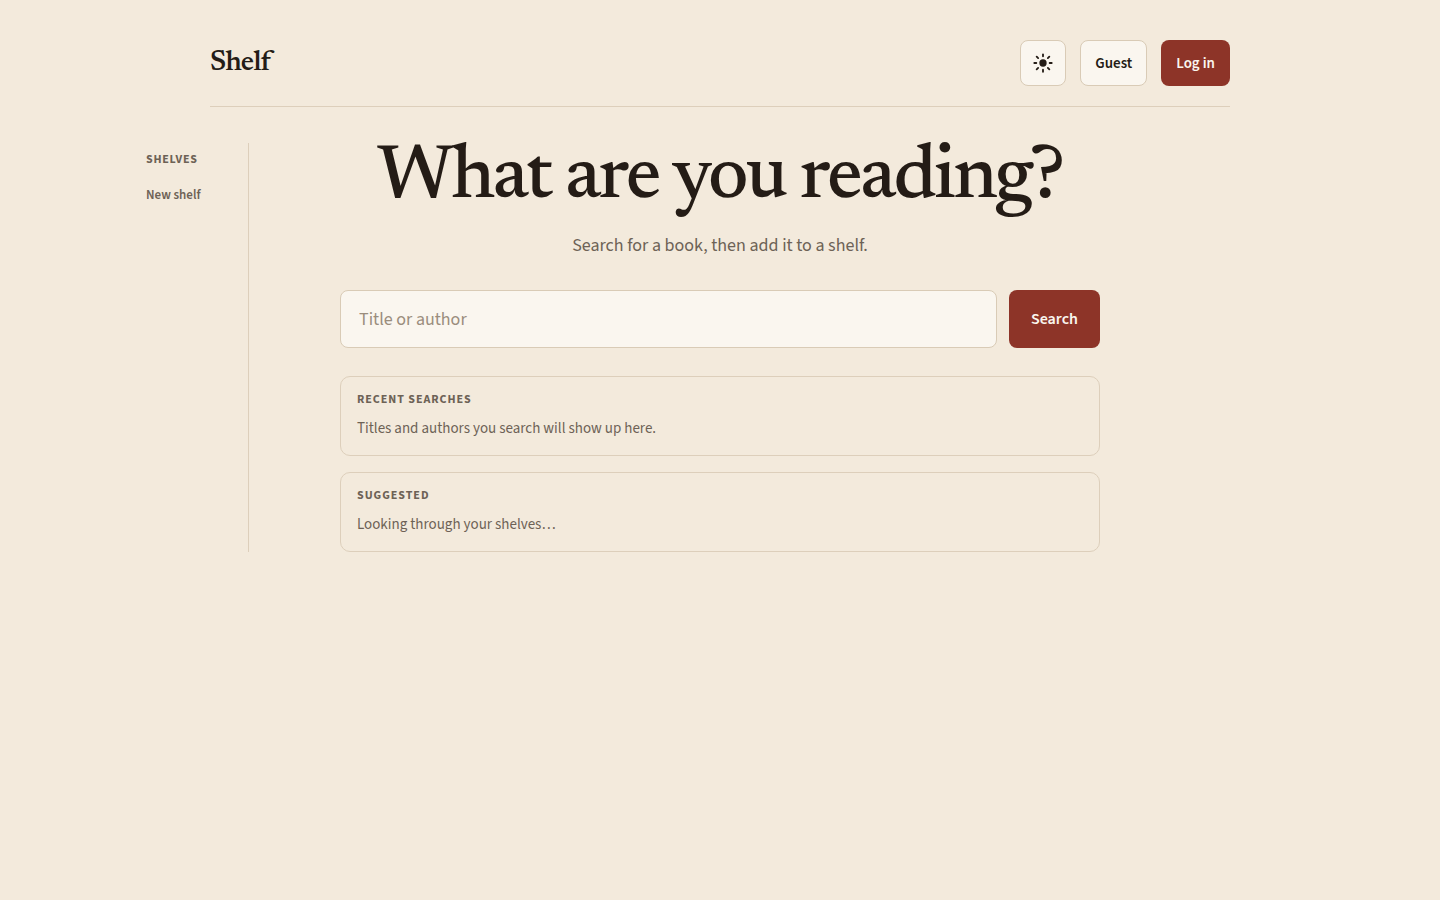
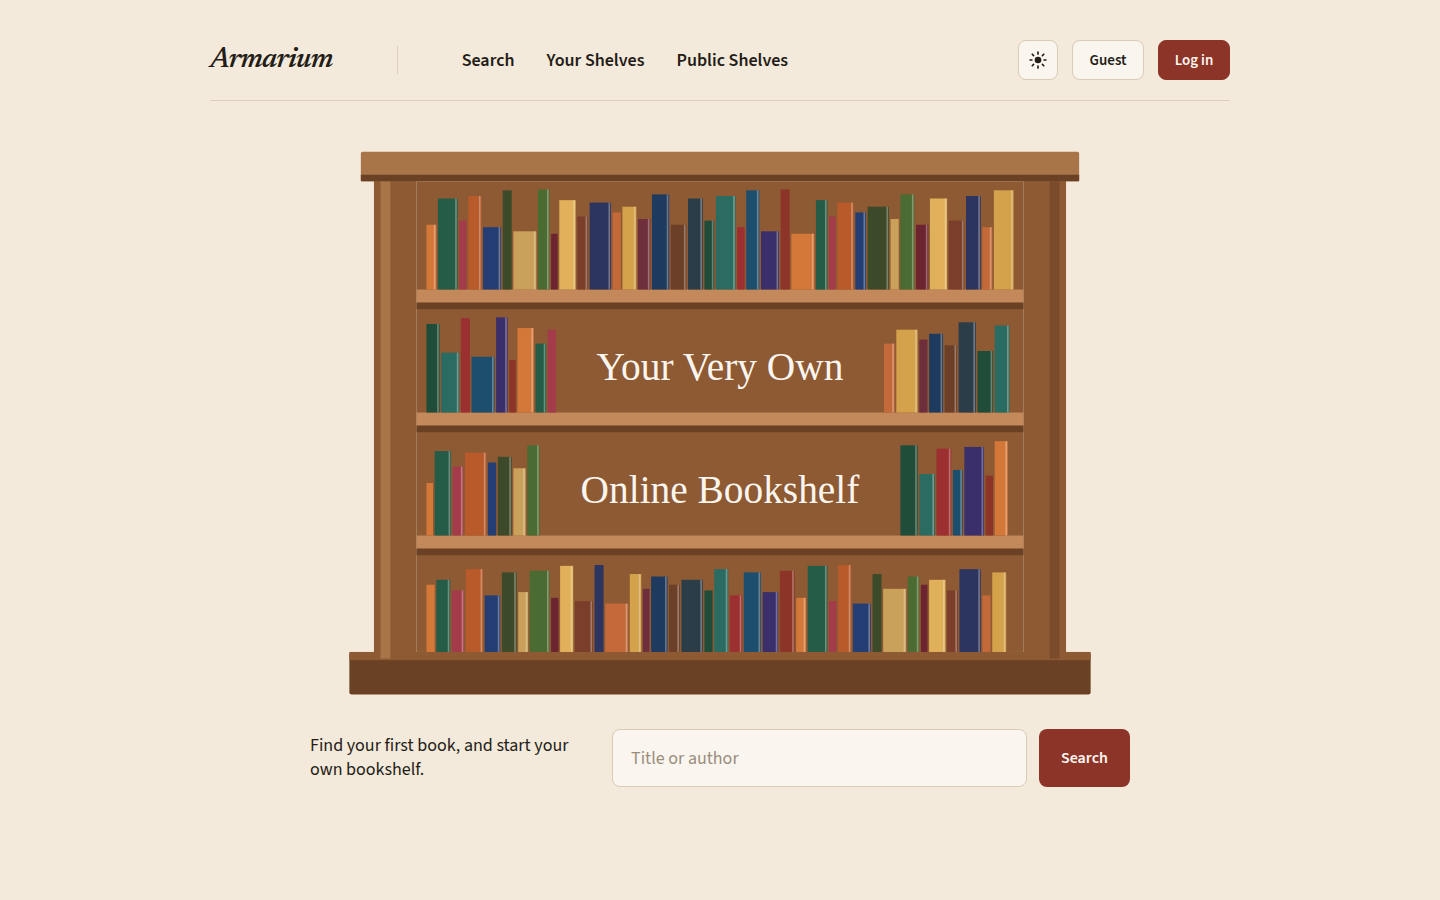
Update the Armarium description and home-page image.

diff --git a/projects.js b/projects.js
@@ -3,14 +3,14 @@
 // projects.html shows this whole list.
 var projects = [
   {
-    name: "Shelf",
+    name: "Armarium",
     live: "https://reading-shelf-2617.web.app",
     source: "https://github.com/RoboJock/shelf",
     image: "images/shelf.png",
-    alt: "Shelf, with a search box labeled Title or author and a prompt asking what you are reading.",
+    alt: "Armarium home page, with a bookshelf illustration and a search box for a title or author.",
     stack: "Next.js · React · TypeScript · Firebase",
-    summary: "Search for a book by title or author, then keep the cover, author, and year on a shelf. Search goes to Open Library. If a record is missing a description, page count, or cover, Google Books fills that gap. Close spellings are tried when the first results do not match what was typed.",
-    detail: "A shelf can stay on this device. Signing in moves those books onto the account instead of starting over."
+    summary: "A bookshelf in the browser. Search for a title or an author, then add the book to a shelf. Opening a book shows its summary and whether it belongs to a series.",
+    detail: "You can start a shelf as a guest. Signing in keeps your shelves, and public shelves are there for anyone to read."
   },
   {
     name: "Puzzle Cube",

diff --git a/index.html b/index.html
@@ -4,9 +4,9 @@
   <meta charset="utf-8">
   <meta name="viewport" content="width=device-width, initial-scale=1">
   <title>Jaden Eure — Software developer</title>
-  <meta name="description" content="Jaden Eure builds small web apps and ships them. Shelf, Puzzle Cube, and Study Deck are live.">
+  <meta name="description" content="Jaden Eure builds small web apps and ships them. Armarium, Puzzle Cube, and Study Deck are live.">
   <meta property="og:title" content="Jaden Eure — Software developer">
-  <meta property="og:description" content="Three web apps, each live in the browser. Shelf, Puzzle Cube, and Study Deck.">
+  <meta property="og:description" content="Three web apps, each live in the browser. Armarium, Puzzle Cube, and Study Deck.">
   <meta property="og:type" content="website">
   <meta property="og:image" content="images/shelf.png">
   <link rel="icon" href="favicon.svg" type="image/svg+xml">

diff --git a/README.md b/README.md
@@ -4,7 +4,7 @@ Portfolio site. The home page shows the first three apps in `projects.js`. [Othe
 
 Add an app to `projects.js` only when asked.
 
-- [Shelf](https://reading-shelf-2617.web.app)
+- [Armarium](https://reading-shelf-2617.web.app)
 - [Puzzle Cube](https://faceturn-b3b7.web.app)
 - [Study Deck](https://flashcard-project-2ca2e.web.app)
 
